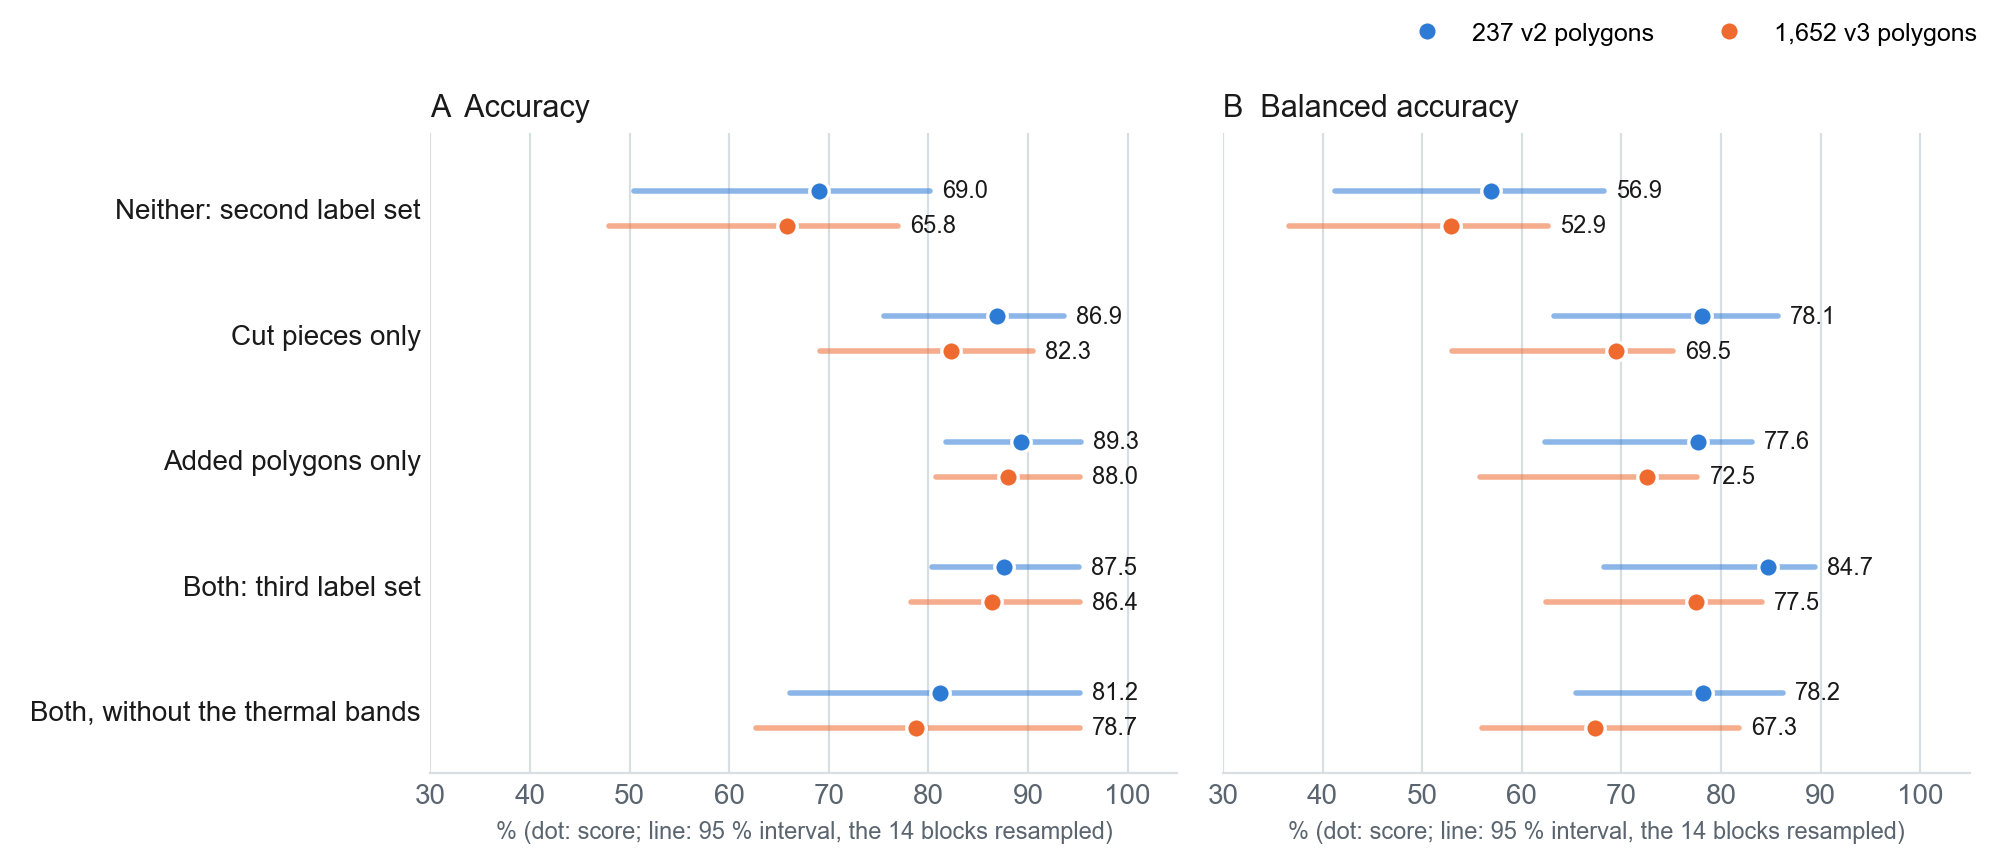
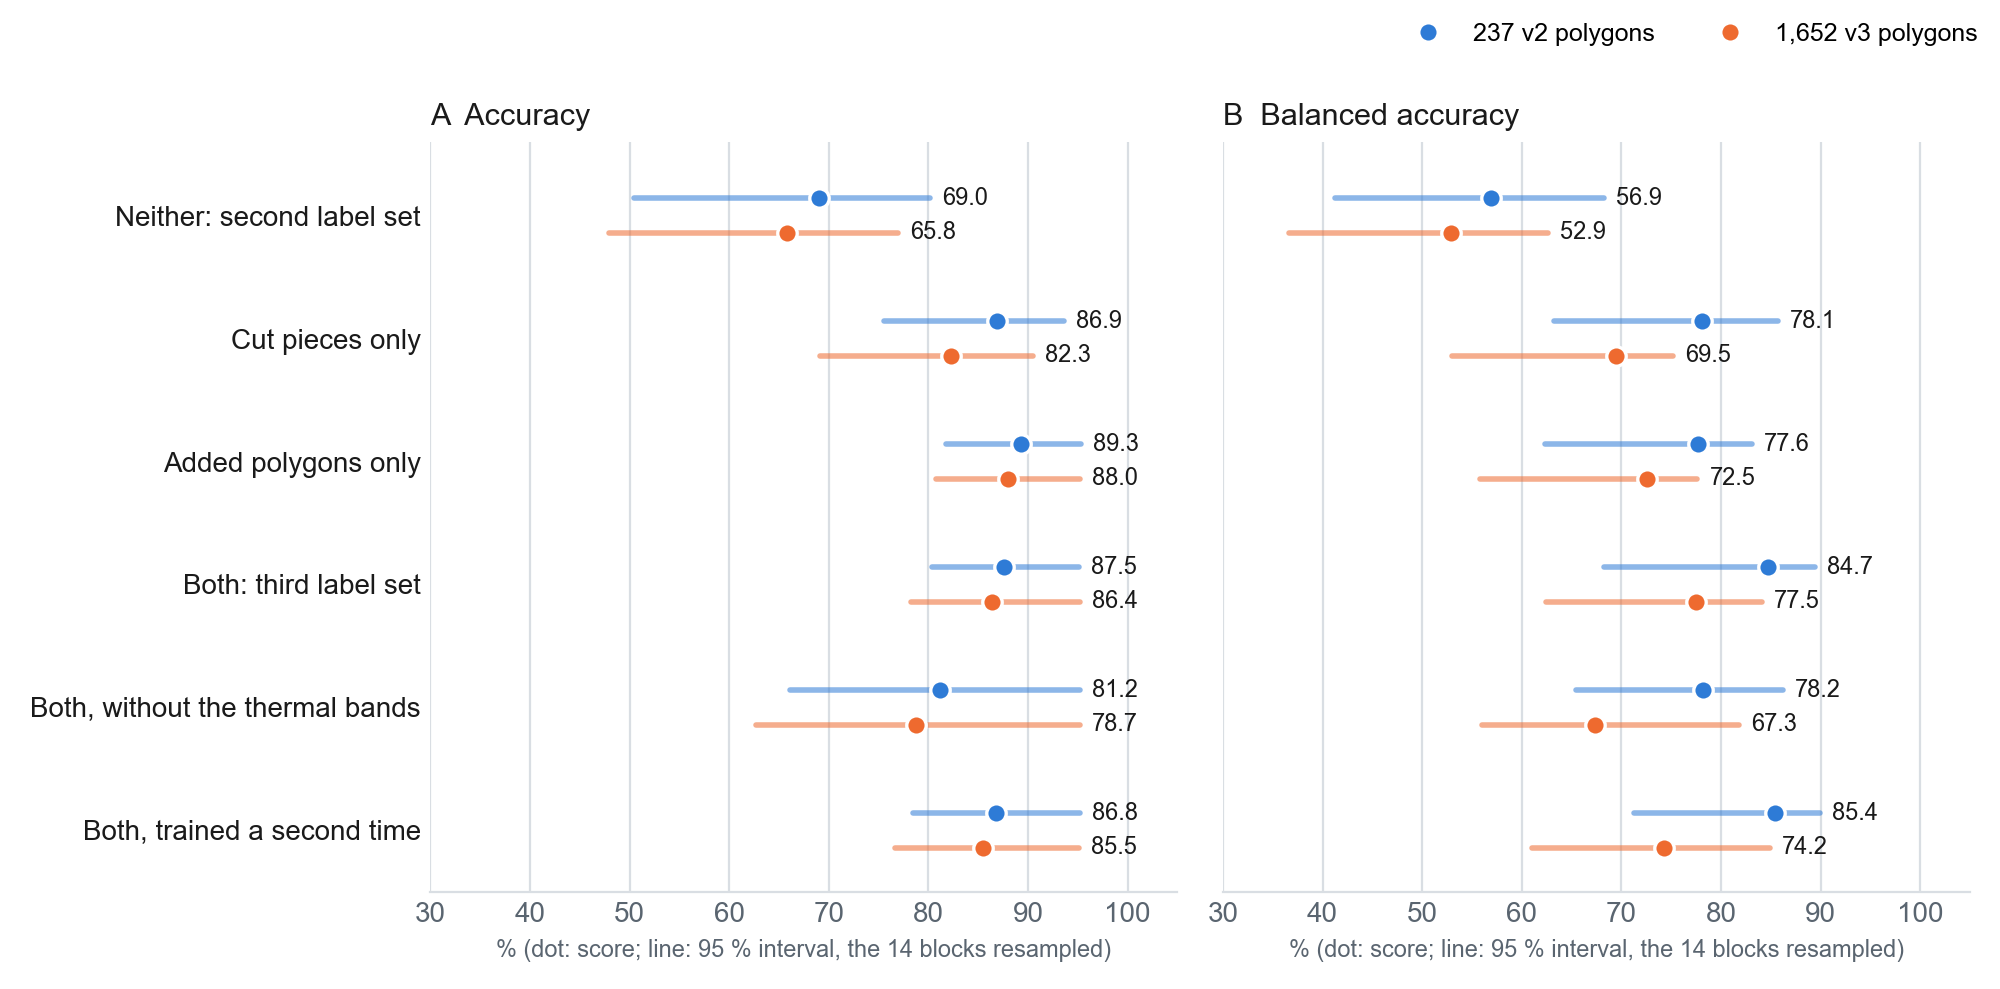
README and backup after rep; the paper's extra-runs figure with its sixth row (KB §69.106)
- README: the class-scheme row gives rep's result in place of "runs until
  11 November"; twelve models, dl-models-rep.zip named; the release is 13.3 GB;
  nothing a restore needs is left out of a release.
- docs/backup.md: 13.3 GB.
- paper/figures/extra_runs.png: the copy the paper builds from still had five
  rows (the routine revert of figures/ kept it); now the six-row figure.

diff --git a/README.md b/README.md
@@ -37,7 +37,7 @@ The interim report went in on **5 November 2026** and the interim presentation w
 | Supervised classification | done at ±60° on the 512 hand-drawn labels, scored on held-out 15° blocks; **published as the 200 m map with an 11 × 11 (2.2 km) majority filter, 73.8%, κ 0.58**; since 2026-10-29 the seven-class map on the reviewed labels led (layout 04b, D28), and since 2026-11-07 the seven-class maps on the v3 labels lead (layouts 04c, 17c, D36) |
 | Channel and crater candidates | done at ±60°: 465,354 closed depressions ≥ 1 km and 969,822 channel segments, checked against the Robbins catalogue; in both type areas; 5,144 basins ≥ 20 km |
 | Deep learning | done on the held-out blocks: a RetinaNet detector (layout 16) and its retrain, scored per held-out polygon; a U-Net pixel classifier over ±60°, **98.9%, κ 0.980 held out** against the SVM map's 73.8% under the same scorer: a terrain-province map, its tile seams removed by a second, offset pass, shown beside the published SVM map (layout 17); on the reviewed seven-class labels a second U-Net, 69.0%, κ 0.606 (layout 17b); on the third label set a third, 87.6 %, κ 0.844 (layout 17c), a lead map of the final (D36) |
-| Class scheme, four classes to seven | **done; the v3 maps lead the final (D36, 2026-11-07)**: Crater narrowed to impact craters, volcanic plains counted as Normal Ground, three new classes (volcanic edifice, apron, fluvial channel). The 512 labels audited: five volcanoes had been labelled Crater. The proposals are built (1,086 rows: 12 relabels, 23 to check, 574 new polygons, the rest kept) in `Landform_TrainingSamples_v2_proposals` and the map "Labels v2: proposals", **reviewed** (KB §69.8): the author's own rows done, the apron and fluvial strips screened by a written rule at the author's request (fluvial strips kept only on a valley floor, 192 of 276; aprons only where not flat, 155 of 172); six Crater polygons that are not craters dropped; hills kept although it has training polygons in only two blocks. The v2 labels are applied (971: 734 training, 237 held out). The seven-class SVM and U-Net runs are rehearsed end to end on the proposals taken as proposed (`--labels v2p`: a test of the pipeline, never a result); on the reviewed labels the seven-class SVM scores 42.5 %, κ 0.310 against the published map's 35.7 %, κ 0.244 on the 237 held-out polygons, and the U-Net on v2 69.0 %, κ 0.606 against the four-class U-Net's 44.1 %, κ 0.301. The gain is in overall accuracy and macro F1, not in balanced accuracy (SVM 41.9 % against 42.0 %, U-Net 56.9 % against 56.7 %; KB §69.34). Both fail D18's rule on classes 1–4 (SVM 66.0 % against 79.9 %) and on the fall in Crater and hills, but **the author leads with the seven-class maps as the more detailed ones (D28, 2026-10-29)**: layouts 04b, 13b and 17b, beside 04, 13 and 17 (KB §68, §69.2, §69.4, §69.8, §69.24–69.26). **Since 2026-11-01 a v3 label set** (KB §69.49): the v2 polygons cut into 0.5° pieces and screened against the DEM, the Robbins catalogue and SIM 3292, plus new polygons from the same data (Robbins craters, steep and smooth terrain, catena troughs, valley strips): 10,269 training and 1,652 held-out labels, accepted by a written rule, not reviewed (flat Tharsis fan deposits admitted as apron since 2026-11-02, KB §69.56); the v3 runs are scored (KB §69.80, §69.81): the U-Net 87.6 %, κ 0.844 on the 237 v2 held-out polygons and 49.6 % on a probability sample labelled by the AI assistant; the SVM 39.1 %, κ 0.288, which the rule set before the run does not recommend. **Both lead the final at the author's choice (D36, KB §69.82)**: layouts 04c, 13c and 17c; the extra runs are scored (KB §69.84–§69.102): on two draws of 14 other held-out blocks, retrained U-Nets score 86.6 % and 85.4 %; without the thermal bands the U-Net scores 81.2 % against 87.5 %, a drop not resolved by block; cutting the v2 polygons and adding new ones contribute about equally to the gain over the v2 labels; a second training with the same settings, to price one training against another, runs until 11 November |
+| Class scheme, four classes to seven | **done; the v3 maps lead the final (D36, 2026-11-07)**: Crater narrowed to impact craters, volcanic plains counted as Normal Ground, three new classes (volcanic edifice, apron, fluvial channel). The 512 labels audited: five volcanoes had been labelled Crater. The proposals are built (1,086 rows: 12 relabels, 23 to check, 574 new polygons, the rest kept) in `Landform_TrainingSamples_v2_proposals` and the map "Labels v2: proposals", **reviewed** (KB §69.8): the author's own rows done, the apron and fluvial strips screened by a written rule at the author's request (fluvial strips kept only on a valley floor, 192 of 276; aprons only where not flat, 155 of 172); six Crater polygons that are not craters dropped; hills kept although it has training polygons in only two blocks. The v2 labels are applied (971: 734 training, 237 held out). The seven-class SVM and U-Net runs are rehearsed end to end on the proposals taken as proposed (`--labels v2p`: a test of the pipeline, never a result); on the reviewed labels the seven-class SVM scores 42.5 %, κ 0.310 against the published map's 35.7 %, κ 0.244 on the 237 held-out polygons, and the U-Net on v2 69.0 %, κ 0.606 against the four-class U-Net's 44.1 %, κ 0.301. The gain is in overall accuracy and macro F1, not in balanced accuracy (SVM 41.9 % against 42.0 %, U-Net 56.9 % against 56.7 %; KB §69.34). Both fail D18's rule on classes 1–4 (SVM 66.0 % against 79.9 %) and on the fall in Crater and hills, but **the author leads with the seven-class maps as the more detailed ones (D28, 2026-10-29)**: layouts 04b, 13b and 17b, beside 04, 13 and 17 (KB §68, §69.2, §69.4, §69.8, §69.24–69.26). **Since 2026-11-01 a v3 label set** (KB §69.49): the v2 polygons cut into 0.5° pieces and screened against the DEM, the Robbins catalogue and SIM 3292, plus new polygons from the same data (Robbins craters, steep and smooth terrain, catena troughs, valley strips): 10,269 training and 1,652 held-out labels, accepted by a written rule, not reviewed (flat Tharsis fan deposits admitted as apron since 2026-11-02, KB §69.56); the v3 runs are scored (KB §69.80, §69.81): the U-Net 87.6 %, κ 0.844 on the 237 v2 held-out polygons and 49.6 % on a probability sample labelled by the AI assistant; the SVM 39.1 %, κ 0.288, which the rule set before the run does not recommend. **Both lead the final at the author's choice (D36, KB §69.82)**: layouts 04c, 13c and 17c; the extra runs are scored (KB §69.84–§69.102): on two draws of 14 other held-out blocks, retrained U-Nets score 86.6 % and 85.4 %; without the thermal bands the U-Net scores 81.2 % against 87.5 %, a drop not resolved by block; cutting the v2 polygons and adding new ones contribute about equally to the gain over the v2 labels; a second training with the same settings (scored 11-11, KB §69.106) stays within a point (86.8 % and 85.5 %), so the thermal drop's score is larger than one training against another, but it maps volcanic edifice on 8.7 % of the windows against 16.3 %: the class areas are one training's |
 | Landform digitising | **under way, the critical path**: 3,791 of 9,287 candidates reviewed, every closed depression at both type areas (precision 10% at Ius, 13% at Athabasca), the 188 steep Ius channels (54%) and 209 of the 409 rock-floored Athabasca channels (50%); 199 channels and 381 crater rims accepted into the landform layers (KB §69.33). A blind check of the agent against 48 of the author's calls agreed at chance (κ 0.08), so the review stays the author's, now also on contact sheets answered as letters (KB §69.51); since 11-10 the author does no more manual review, so the tally stands at 3,791 and the agent's calls below stay in (KB §69.105). On the ~5 m CTX mosaic the agent traced 86 Athabasca lava margins (1,476 km) into the margin layer, where test T5 again finds H1 not supported, and again on the 56 of 85 its blind second reading kept (KB §69.105); its CTX channel review and channel-origin calls failed their registered repeat checks (KB §69.52) and, at the author's decision, are written in all the same, marked as the agent's, for the author's own answers to replace: 200 Athabasca channels (3 accepted, so 202 in the layer) and an origin on all 199 copies (29 fluvial, 0 volcanic). The two blind accuracy checks are scored on the agent's labels too: on a probability sample the published map scores 56.9 % (48.8–65.0 %), below its 73.8 % on the held-out polygons (KB §69.55) |
 | Map layouts | twenty-six, below |
 
@@ -273,9 +273,9 @@ Mars Project/
   Mars Project.aprx        the ArcGIS Pro project: 45 maps, all Mars, and 26 layouts
   Global60/, TypeArea/,    metadata sidecars, models (.ecd), raster attribute tables, layouts;
   Athabasca/               Global60/checks/ holds the DEM step chips
-  DLModels/                the eleven deep-learning models' metadata and training plots (the
+  DLModels/                the twelve deep-learning models' metadata and training plots (the
                            weight files, 137-165 MB, are in the release's
-                           dl-models-part*.zip, data-2026-11-10)
+                           dl-models-part*.zip and dl-models-rep.zip, data-2026-11-10)
   LabeledObjects/          deep-learning export metadata (the chips are in the release)
   GpMessages/, ImportLog/  Pro's own geoprocessing logs
   review_sheets/           the guides to the candidate review on contact sheets and to the off-Tharsis
@@ -310,13 +310,13 @@ CITATION.cff               how to cite the project ("Cite this repository" on Gi
 
 ## Backup and restore
 
-The rasters are in two releases: [`data-2026-11-10`](https://github.com/loggger101/Mars_Terrestrial_GlobalMosaic_GIS-Data/releases/tag/data-2026-11-10) (13.0 GB: both type areas, Ius Chasma and Athabasca Valles, the ±60° landform maps with the U-Net maps, the seven-class maps and the two v3 maps that lead the final, the extra runs' window maps, the eleven trained deep-learning models, the GUI SVM maps, caches, the GeoPackage with the ±60° candidates and the seven-class and v3 labels; it replaces `data-2026-10-29`) and [`derivatives-2026-10-06`](https://github.com/loggger101/Mars_Terrestrial_GlobalMosaic_GIS-Data/releases/tag/derivatives-2026-10-06) (74.4 GB: the ±60° derivatives, split into 1.9 GB pieces, and the deep-learning exports). [`restore.py`](restore.py) rebuilds the drive from a clone and those two releases, checking every file against its SHA-256:
+The rasters are in two releases: [`data-2026-11-10`](https://github.com/loggger101/Mars_Terrestrial_GlobalMosaic_GIS-Data/releases/tag/data-2026-11-10) (13.3 GB: both type areas, Ius Chasma and Athabasca Valles, the ±60° landform maps with the U-Net maps, the seven-class maps and the two v3 maps that lead the final, the extra runs' window maps, the twelve trained deep-learning models, the GUI SVM maps, caches, the GeoPackage with the ±60° candidates and the seven-class and v3 labels; it replaces `data-2026-10-29`) and [`derivatives-2026-10-06`](https://github.com/loggger101/Mars_Terrestrial_GlobalMosaic_GIS-Data/releases/tag/derivatives-2026-10-06) (74.4 GB: the ±60° derivatives, split into 1.9 GB pieces, and the deep-learning exports). [`restore.py`](restore.py) rebuilds the drive from a clone and those two releases, checking every file against its SHA-256:
 
 ```bash
 python restore.py --dest E:\ --dry-run
 ```
 
-[docs/backup.md](docs/backup.md) lists every release asset, how the backup is kept current from the drive, and what is not backed up, the maps and models on the third label set among them until the next data release.
+[docs/backup.md](docs/backup.md) lists every release asset, how the backup is kept current from the drive, and what is not backed up; since rep's model and window maps were added on 11 November, nothing a restore needs is missing.
 
 ## License
 

diff --git a/docs/backup.md b/docs/backup.md
@@ -7,7 +7,7 @@ described in [rasters.md](rasters.md), each vector layer in [the layer catalogue
 
 ## What is in the releases
 
-[`data-2026-11-10`](https://github.com/loggger101/Mars_Terrestrial_GlobalMosaic_GIS-Data/releases/tag/data-2026-11-10), about 13.0 GB (it replaces [`data-2026-10-29`](https://github.com/loggger101/Mars_Terrestrial_GlobalMosaic_GIS-Data/releases/tag/data-2026-10-29), [`data-2026-10-21`](https://github.com/loggger101/Mars_Terrestrial_GlobalMosaic_GIS-Data/releases/tag/data-2026-10-21), [`data-2026-10-19`](https://github.com/loggger101/Mars_Terrestrial_GlobalMosaic_GIS-Data/releases/tag/data-2026-10-19), [`data-2026-10-16`](https://github.com/loggger101/Mars_Terrestrial_GlobalMosaic_GIS-Data/releases/tag/data-2026-10-16) and [`data-2026-10-06`](https://github.com/loggger101/Mars_Terrestrial_GlobalMosaic_GIS-Data/releases/tag/data-2026-10-06), kept for their history; `data-2026-10-29` was the first to hold the seven-class maps and models, this one the first with the v3 maps that lead the final, KB §69.105):
+[`data-2026-11-10`](https://github.com/loggger101/Mars_Terrestrial_GlobalMosaic_GIS-Data/releases/tag/data-2026-11-10), about 13.3 GB (it replaces [`data-2026-10-29`](https://github.com/loggger101/Mars_Terrestrial_GlobalMosaic_GIS-Data/releases/tag/data-2026-10-29), [`data-2026-10-21`](https://github.com/loggger101/Mars_Terrestrial_GlobalMosaic_GIS-Data/releases/tag/data-2026-10-21), [`data-2026-10-19`](https://github.com/loggger101/Mars_Terrestrial_GlobalMosaic_GIS-Data/releases/tag/data-2026-10-19), [`data-2026-10-16`](https://github.com/loggger101/Mars_Terrestrial_GlobalMosaic_GIS-Data/releases/tag/data-2026-10-16) and [`data-2026-10-06`](https://github.com/loggger101/Mars_Terrestrial_GlobalMosaic_GIS-Data/releases/tag/data-2026-10-06), kept for their history; `data-2026-10-29` was the first to hold the seven-class maps and models, this one the first with the v3 maps that lead the final, KB §69.105):
 
 | Asset | What |
 |---|---|
